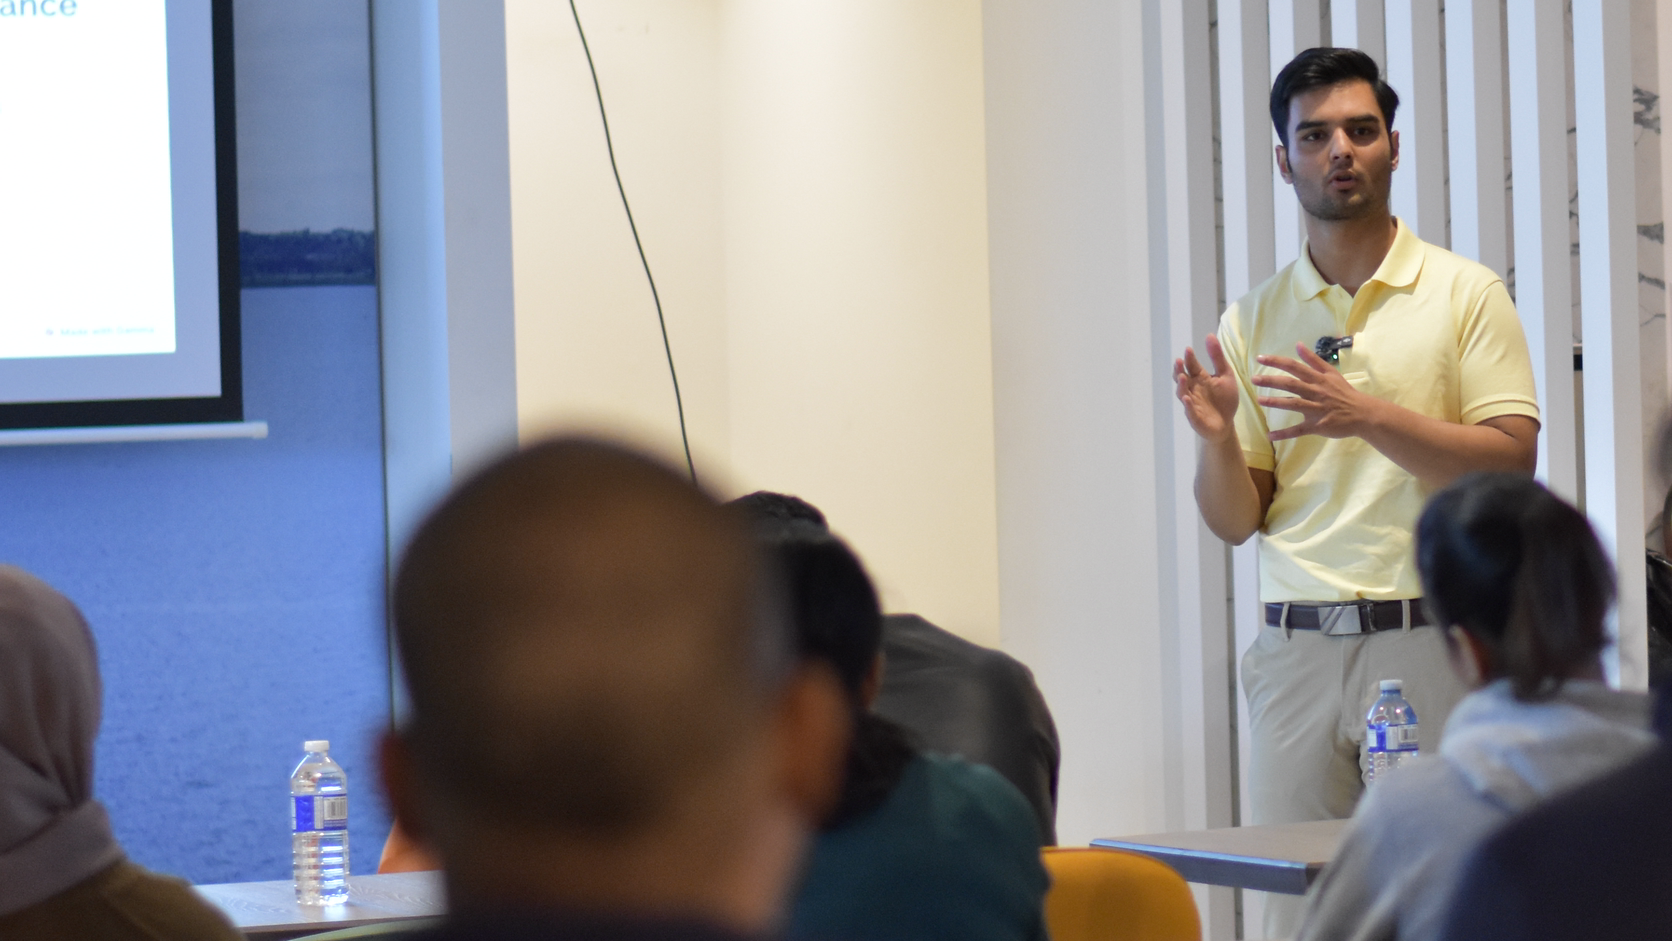
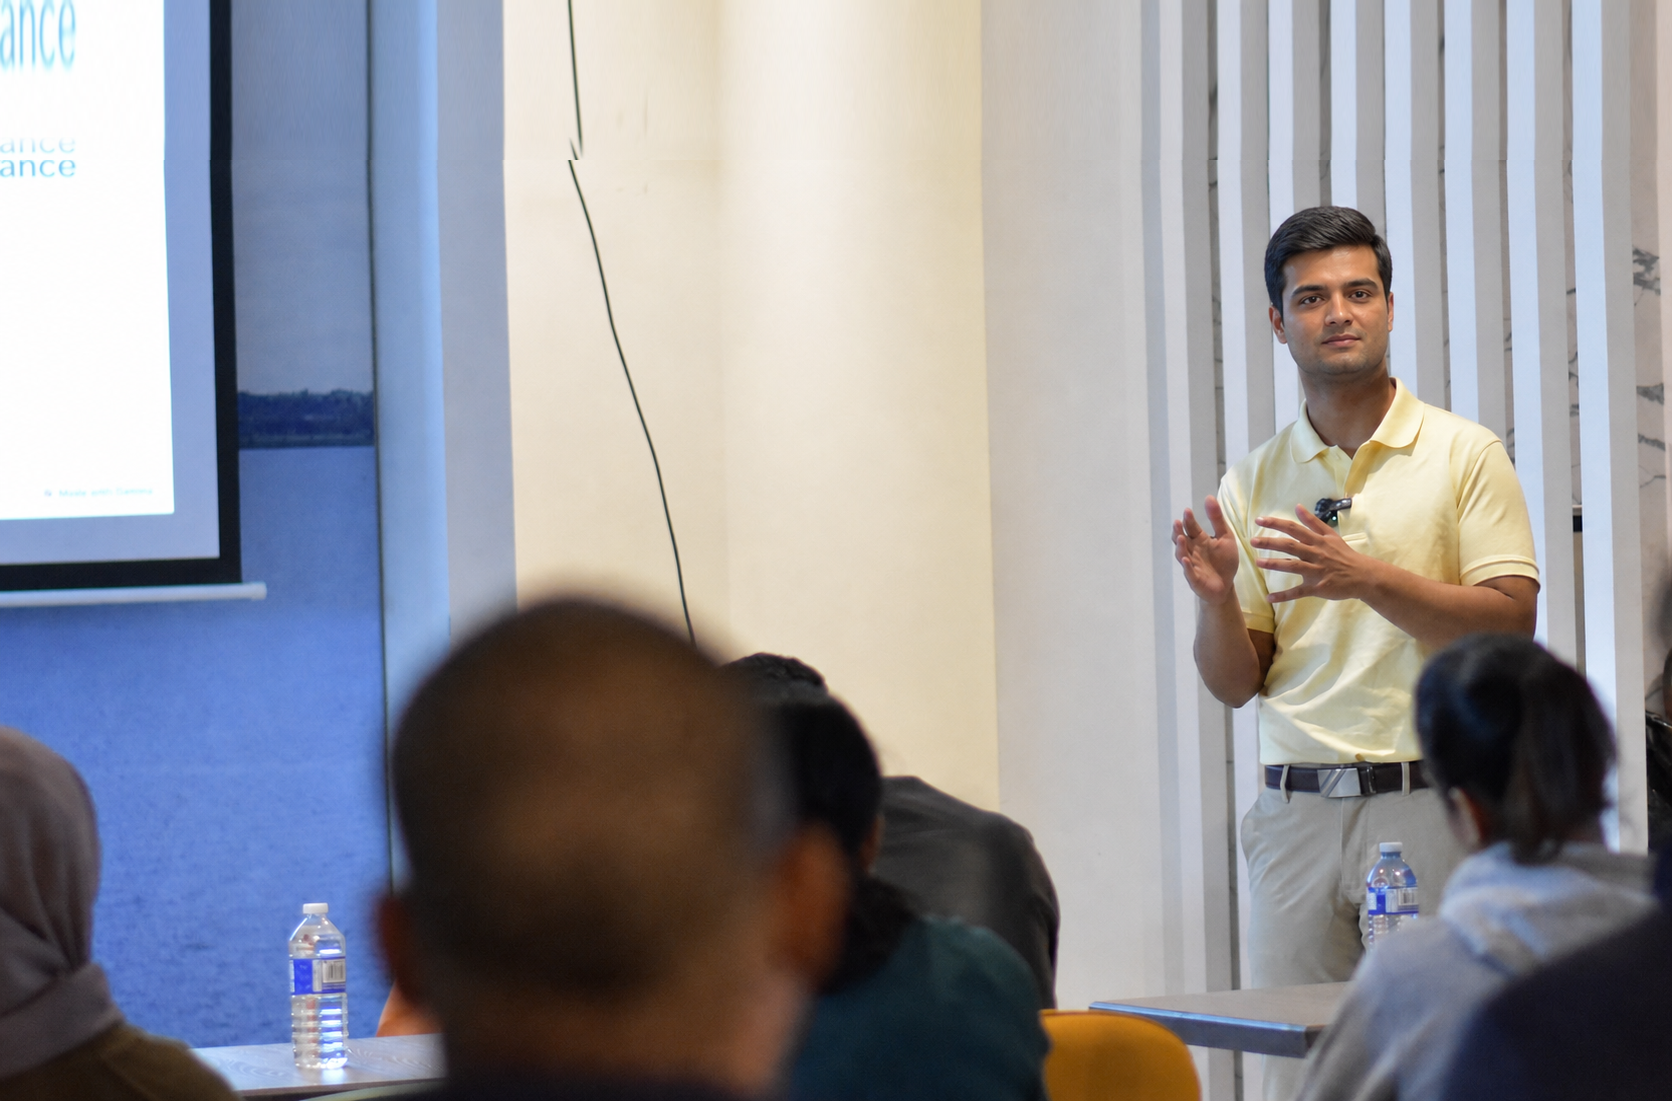
Hero: repair Vyom's face, give his head room to clear the nav
The face. The frame caught him mid-word with the jaw dropped and the eyes soft,
which is what made a real photograph read as odd. Repaired through Codex
image-to-image with his own studio portrait supplied as the likeness reference,
so the bone structure is his and not the model's idea of him. Everything else in
the shot — the room, the students, the pose, the polo, the lapel mic, the grade —
is reproduced from the original. Previous file kept as vyom-hero-bg-pre-facefix.png.

The framing. The nav is bg-white/70 over a backdrop blur, so it does not hide
what is behind it, it smears it — and what was behind it was the top of his
head, because his hair started 48px from the top of a photo anchored at centre.
The photo now carries 160px of extra wall above him, built by stretching the top
40 rows (everything up there is vertical: slats, wall edges, a cable, so there is
no horizontal detail to smear) and crossfaded at the join. Anchoring to `top`
spends that headroom on clearing the nav rather than cropping it away.

Mobile crop rebuilt from the same source so the face matches on phones.

Also in this commit:
- Footer location reads "Canada", per Allen.
- A1 video card widened to max-w-4xl with real spacing, and the embed now asks
  for modestbranding/playsinline. The black band inside the player is in Vyom's
  own upload — it runs the length of the video and his webcam inset sits in it,
  so cropping it would cut his face off.

diff --git a/next-site/app/home-v2/_components/HomeV2Hero.tsx b/next-site/app/home-v2/_components/HomeV2Hero.tsx
@@ -28,7 +28,13 @@ export default function HomeV2Hero() {
       id="home-v2-hero"
       className="relative overflow-hidden bg-white md:min-h-[88vh] lg:min-h-[92vh]"
     >
-      {/* Background photo — desktop & tablet only; mobile uses a plain white bg */}
+      {/* Background photo — desktop & tablet only; mobile uses a plain white bg.
+          The nav is bg-white/70 over a backdrop blur, so whatever sits behind it
+          shows through, and the source frame had Vyom's hair starting 48px from
+          the top — his forehead read straight through the nav. The photo now
+          carries 160px of wall above his head (see public/vyom-hero-bg.png), and
+          anchoring to `top` spends that headroom on clearing the nav instead of
+          cropping it away. */}
       <motion.div
         aria-hidden
         style={{ y: bgY, scale: bgScale }}
@@ -40,7 +46,7 @@ export default function HomeV2Hero() {
           fill
           priority
           sizes="100vw"
-          className="object-cover object-[78%_center] md:object-[75%_center] lg:object-[center_center]"
+          className="object-cover object-[78%_top] md:object-[75%_top] lg:object-[center_top]"
         />
         {/* White wash only on the LEFT, fully transparent on the right so Vyom stays crisp */}
         <div className="absolute inset-0 bg-[linear-gradient(to_right,rgba(255,255,255,0.98)_0%,rgba(255,255,255,0.9)_38%,rgba(255,255,255,0.35)_55%,rgba(255,255,255,0)_72%)] md:bg-[linear-gradient(to_right,rgba(255,255,255,1)_0%,rgba(255,255,255,0.95)_32%,rgba(255,255,255,0.55)_50%,rgba(255,255,255,0)_65%)]" />

diff --git a/next-site/components/CourseInteractions.tsx b/next-site/components/CourseInteractions.tsx
@@ -103,7 +103,9 @@ export default function CourseInteractions({
         const id = el.dataset.ytFacade;
         if (!id) return;
         const frame = document.createElement('iframe');
-        frame.src = `https://www.youtube-nocookie.com/embed/${id}?autoplay=1&rel=0`;
+        frame.src =
+          `https://www.youtube-nocookie.com/embed/${id}` +
+          '?autoplay=1&rel=0&modestbranding=1&playsinline=1&color=white';
         frame.title = el.dataset.ytTitle || 'Video';
         frame.allow =
           'accelerometer; autoplay; clipboard-write; encrypted-media; gyroscope; picture-in-picture; web-share';

diff --git a/next-site/app/a1-course/_source.html b/next-site/app/a1-course/_source.html
@@ -530,9 +530,9 @@
   </section>
 
   <!-- PROGRAM VIDEO -->
-  <section class="pb-[10px] md:pb-4 -mt-2 md:-mt-6">
+  <section class="pt-2 pb-6 md:pt-6 md:pb-12">
     <div class="ghl-row mx-auto px-6">
-      <div class="reveal mx-auto max-w-3xl">
+      <div class="reveal mx-auto max-w-4xl">
         <button type="button"
                 class="yt-facade group"
                 data-yt-facade="PCXt_XCyV1U"

diff --git a/next-site/components/Footer.tsx b/next-site/components/Footer.tsx
@@ -73,7 +73,7 @@ export default function Footer() {
               </li>
               <li className="flex items-start gap-2.5">
                 <MapPin className="w-4 h-4 text-brand-amber shrink-0 mt-0.5" />
-                <span>Montr&eacute;al, Qu&eacute;bec, Canada</span>
+                <span>Canada</span>
               </li>
             </ul>
             <Link
